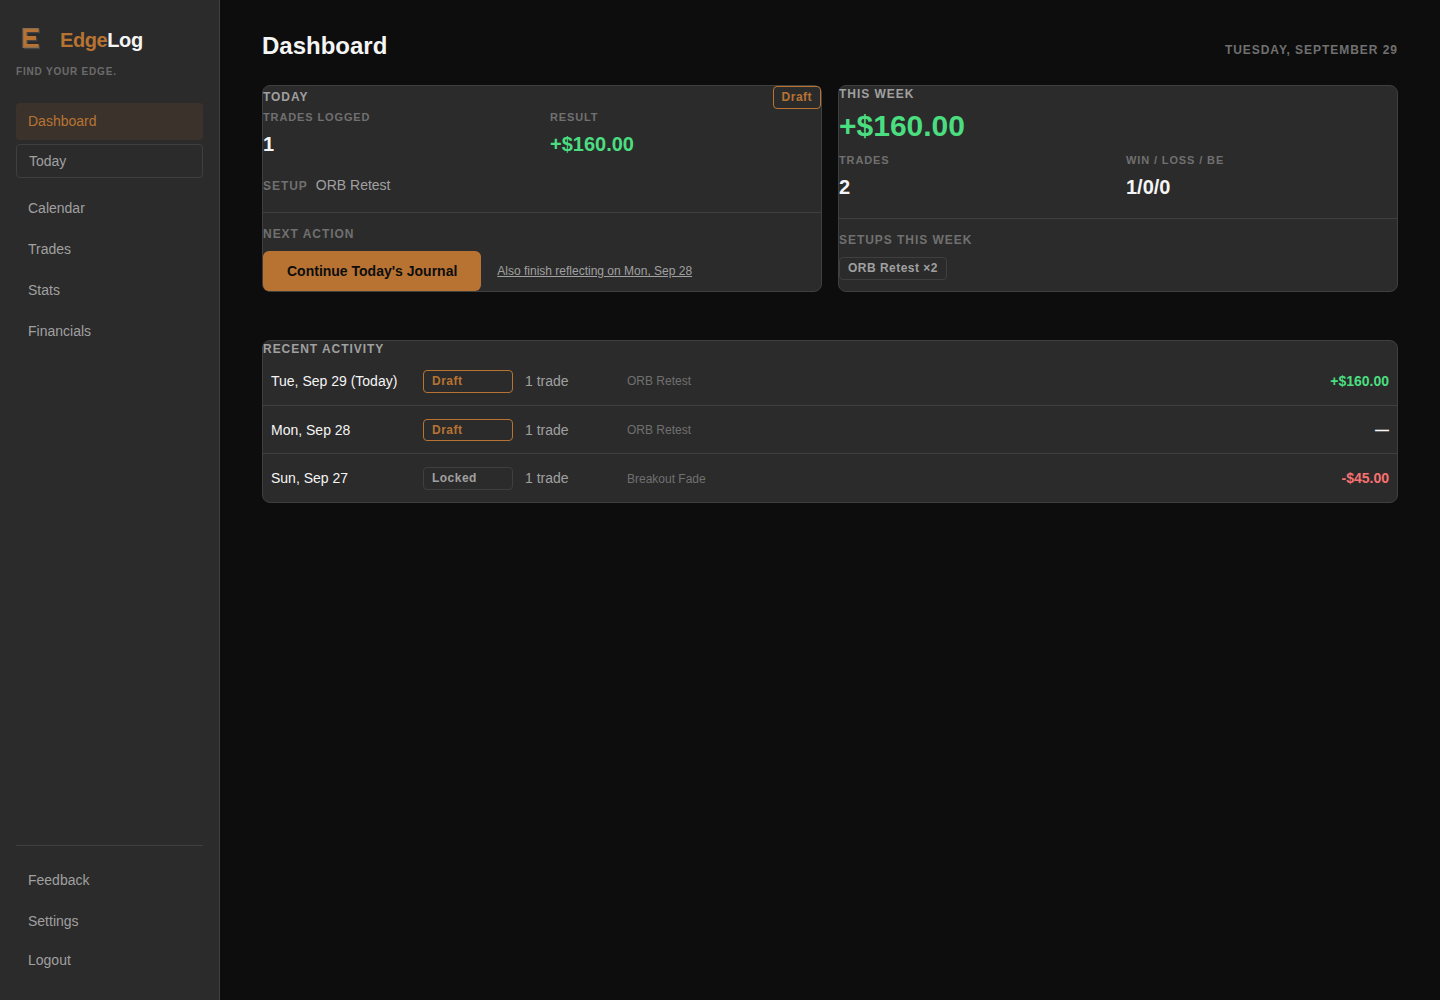
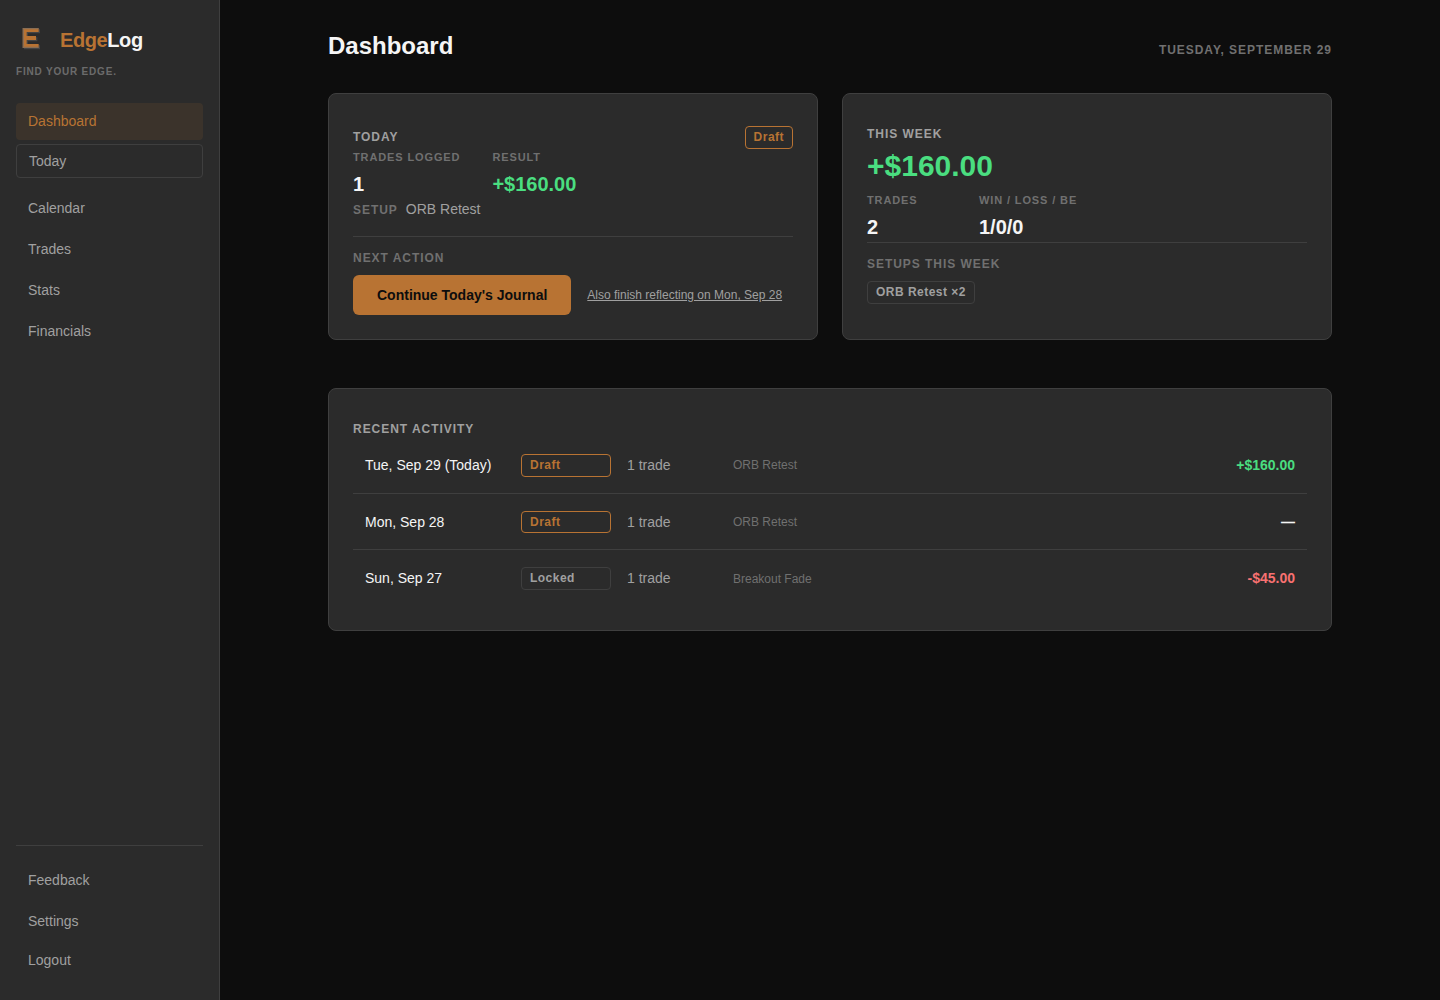
fix(dashboard): P2 layout refinement -- gutters, panel padding, non-stretched stats
Owner PASS'd the Today | This Week -> Recent Activity structure but
flagged that it felt bunched against the viewport edges and the top two
panels stretched wide relative to their content, leaving awkward dead
interior space.

- .dashboard: narrower max-width (1100px, was the shared 1200px
  content-max) with a deliberately generous side gutter, so the composed
  block reads as centered instead of edge-to-edge at normal desktop
  widths. Verified from 640px mobile up through 1920px wide.
- .el-workstation: Dashboard-scoped padding increase over the shared
  (compact, entry-ticket-tuned) default -- other pages using the same
  class are untouched since this lives in Dashboard.vue's own scoped
  style, not global.css.
- .dashboard-stat-row: switched from a stretching grid to non-stretching
  flex. A field or two forced to fill the row was spreading each value
  into its own pocket of whitespace; content-sized fields read as one
  composed row with a single intentional margin at the end.
- Recent Activity rows: more vertical/horizontal breathing room.

No change to structure, data, or behavior -- same Today | This Week /
Recent Activity layout and logic. 198 frontend tests still pass, build
clean. Refreshed desktop/mobile/click-through evidence, added a 1920px
shot to show the gutter doesn't run away at wide viewports.

Claude-Session: https://claude.ai/code/session_01KFX6WxfQaScbfd1GazdJDr

Changed region(s): [[0.1562, 0.031, 0.9688, 0.651], [0.7812, 0.155, 0.8438, 0.217]]

diff --git a/frontend/src/views/Dashboard.vue b/frontend/src/views/Dashboard.vue
@@ -257,8 +257,11 @@ const recentDays = computed(() => {
 
 <style scoped>
 .dashboard {
-  padding: var(--el-space-8);
-  max-width: var(--el-content-max);
+  /* Narrower than the shared content-max and with a deliberately generous
+     side gutter -- at typical desktop widths this reads as a composed
+     workspace instead of stretching edge-to-edge against the rail. */
+  padding: var(--el-space-8) var(--el-space-12);
+  max-width: 1100px;
   margin: 0 auto;
 }
 
@@ -267,7 +270,7 @@ const recentDays = computed(() => {
   align-items: baseline;
   justify-content: space-between;
   gap: var(--el-space-3);
-  margin-bottom: var(--el-space-6);
+  margin-bottom: var(--el-space-8);
 }
 
 .dashboard-header h1 {
@@ -279,18 +282,37 @@ const recentDays = computed(() => {
   color: var(--el-text-subtle);
 }
 
+/* The shared .el-workstation padding is tuned for compact data-entry
+   tickets; the Dashboard's panels are read-heavy, not entry forms, so they
+   get noticeably more interior breathing room. Scoped to this component
+   only -- other .el-workstation usages (trade/financial tickets) are
+   untouched. */
+.el-workstation {
+  padding: var(--el-space-8) var(--el-space-6) var(--el-space-6);
+}
+
 .dashboard-top-grid {
   display: grid;
   grid-template-columns: repeat(2, 1fr);
-  gap: var(--el-space-4);
+  gap: var(--el-space-6);
   margin-bottom: var(--el-space-6);
 }
 
+/* Deliberately not a stretching grid -- with a stat or two per panel,
+   forcing them to fill the row just spreads each value out into its own
+   awkward pocket of whitespace. Left-aligned, content-sized fields read as
+   one composed row with a single intentional margin at the end, not a
+   spreadsheet. */
 .dashboard-stat-row {
-  display: grid;
-  grid-template-columns: repeat(auto-fit, minmax(110px, 1fr));
-  gap: var(--el-space-4);
-  margin-bottom: var(--el-space-4);
+  display: flex;
+  flex-wrap: wrap;
+  gap: var(--el-space-6) var(--el-space-8);
+  margin-bottom: var(--el-space-5);
+}
+
+.dashboard-stat-row .el-field {
+  flex: 0 0 auto;
+  min-width: 80px;
 }
 
 .dashboard-stat {
@@ -394,8 +416,8 @@ const recentDays = computed(() => {
   display: grid;
   grid-template-columns: 140px 90px 90px 1fr auto;
   align-items: center;
-  gap: var(--el-space-3);
-  padding: var(--el-space-3) var(--el-space-2);
+  gap: var(--el-space-4);
+  padding: var(--el-space-4) var(--el-space-3);
   border-bottom: 1px solid var(--el-border);
   cursor: pointer;
   transition: background-color var(--el-transition-fast);
@@ -451,6 +473,10 @@ const recentDays = computed(() => {
 @media (max-width: 640px) {
   .dashboard {
     padding: var(--el-space-4);
+  }
+
+  .el-workstation {
+    padding: var(--el-space-5) var(--el-space-4) var(--el-space-4);
   }
 
   .dashboard-activity-row {
